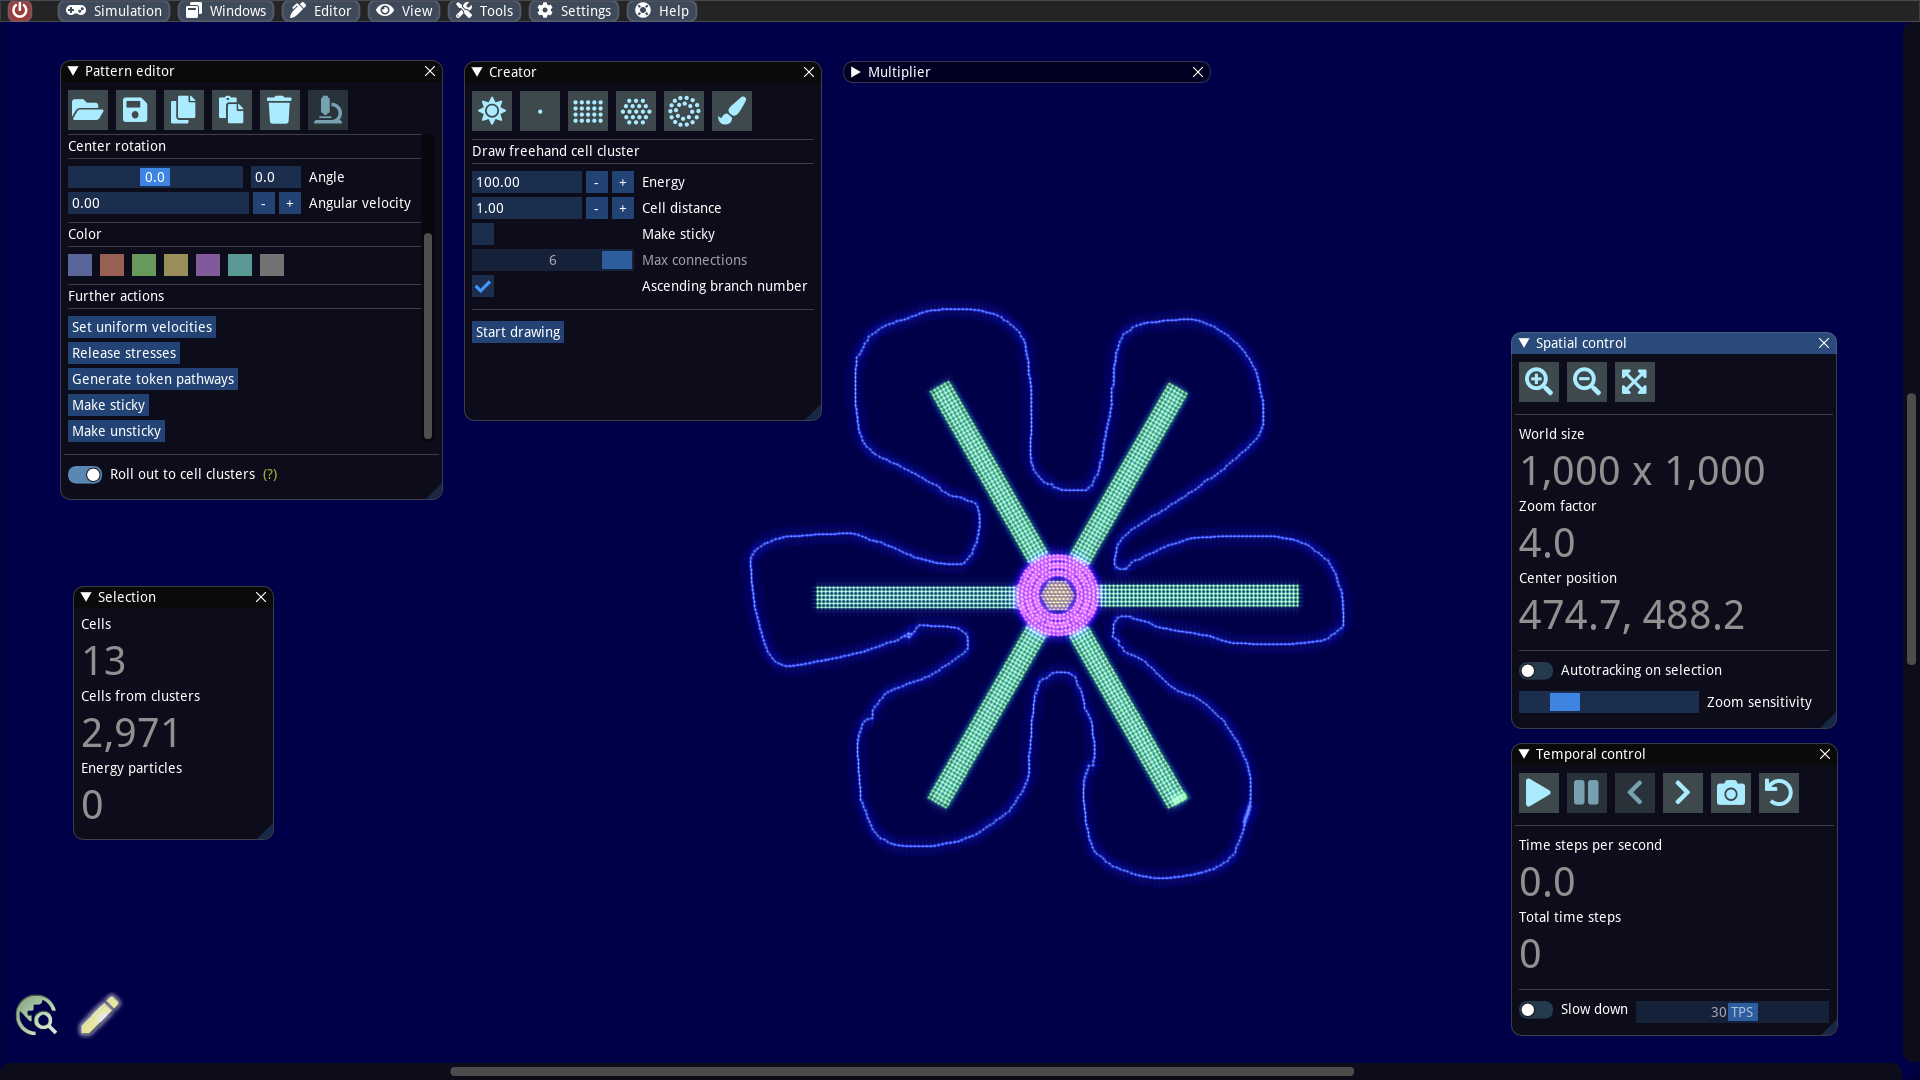
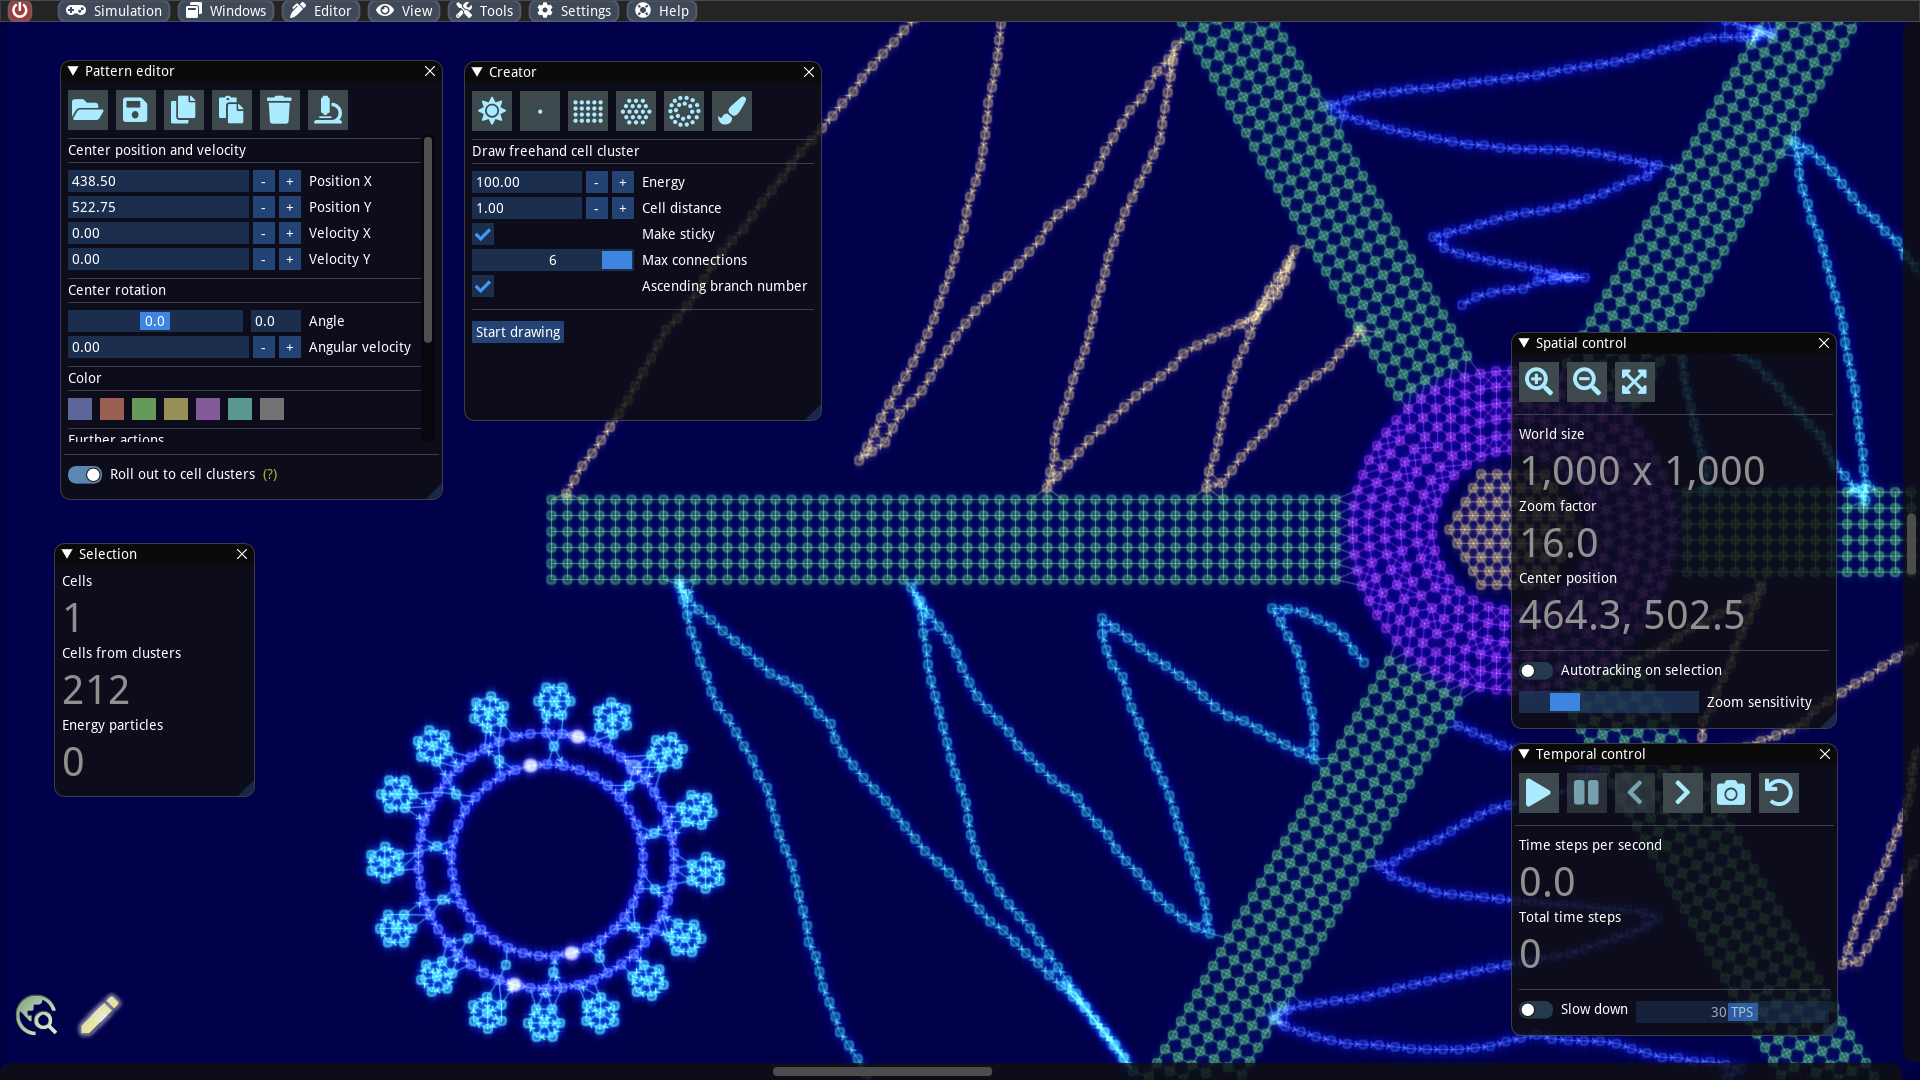
GitBook: [#117] No subject

diff --git a/getting-started/construct-simple-worlds.md b/getting-started/construct-simple-worlds.md
@@ -31,9 +31,13 @@ We open the _Creator_ via the _Editor_ menu. This window provides various tools 
 
 Except for the freehand drawings, all constructions work the same way: One sets the properties in advance (e.g. the dimensions for a rectangular cell cluster) and then clicks _Build_. The cell cluster or energy particle is then generated near the center and automatically selected. This allows one to change the color, velocity or other properties immediately afterward in the _Pattern editor_. Deleting a generated pattern can also be accomplished there.
 
+If desired, the cell structures can be connected to other structures by selecting _Make sticky_ before generation and then moving them with the mouse and the SHIFT key pressed into the vicinity of another structure that was also created with _Make sticky_.
+
 ![Some geometric primitives](<../.gitbook/assets/geometric primitives.png>)
 
 In order to draw freehand, the drawing mode must first be activated and then explicitly deactivated. As soon as it is activated, one can place cells in the simulation view with the left mouse button pressed.
+
+Finally, we load an existing pattern into our world. We do this by clicking on the load button in the _Pattern editor_ and select the file `./examples/patterns/dark forest/Plant Deco 3.sim`. This pattern is a passive structure, which has similarities to a virus. We can now admire our work of art ;-)
 
 ![Freehand drawing](<../.gitbook/assets/freehand drawing.png>)
 
